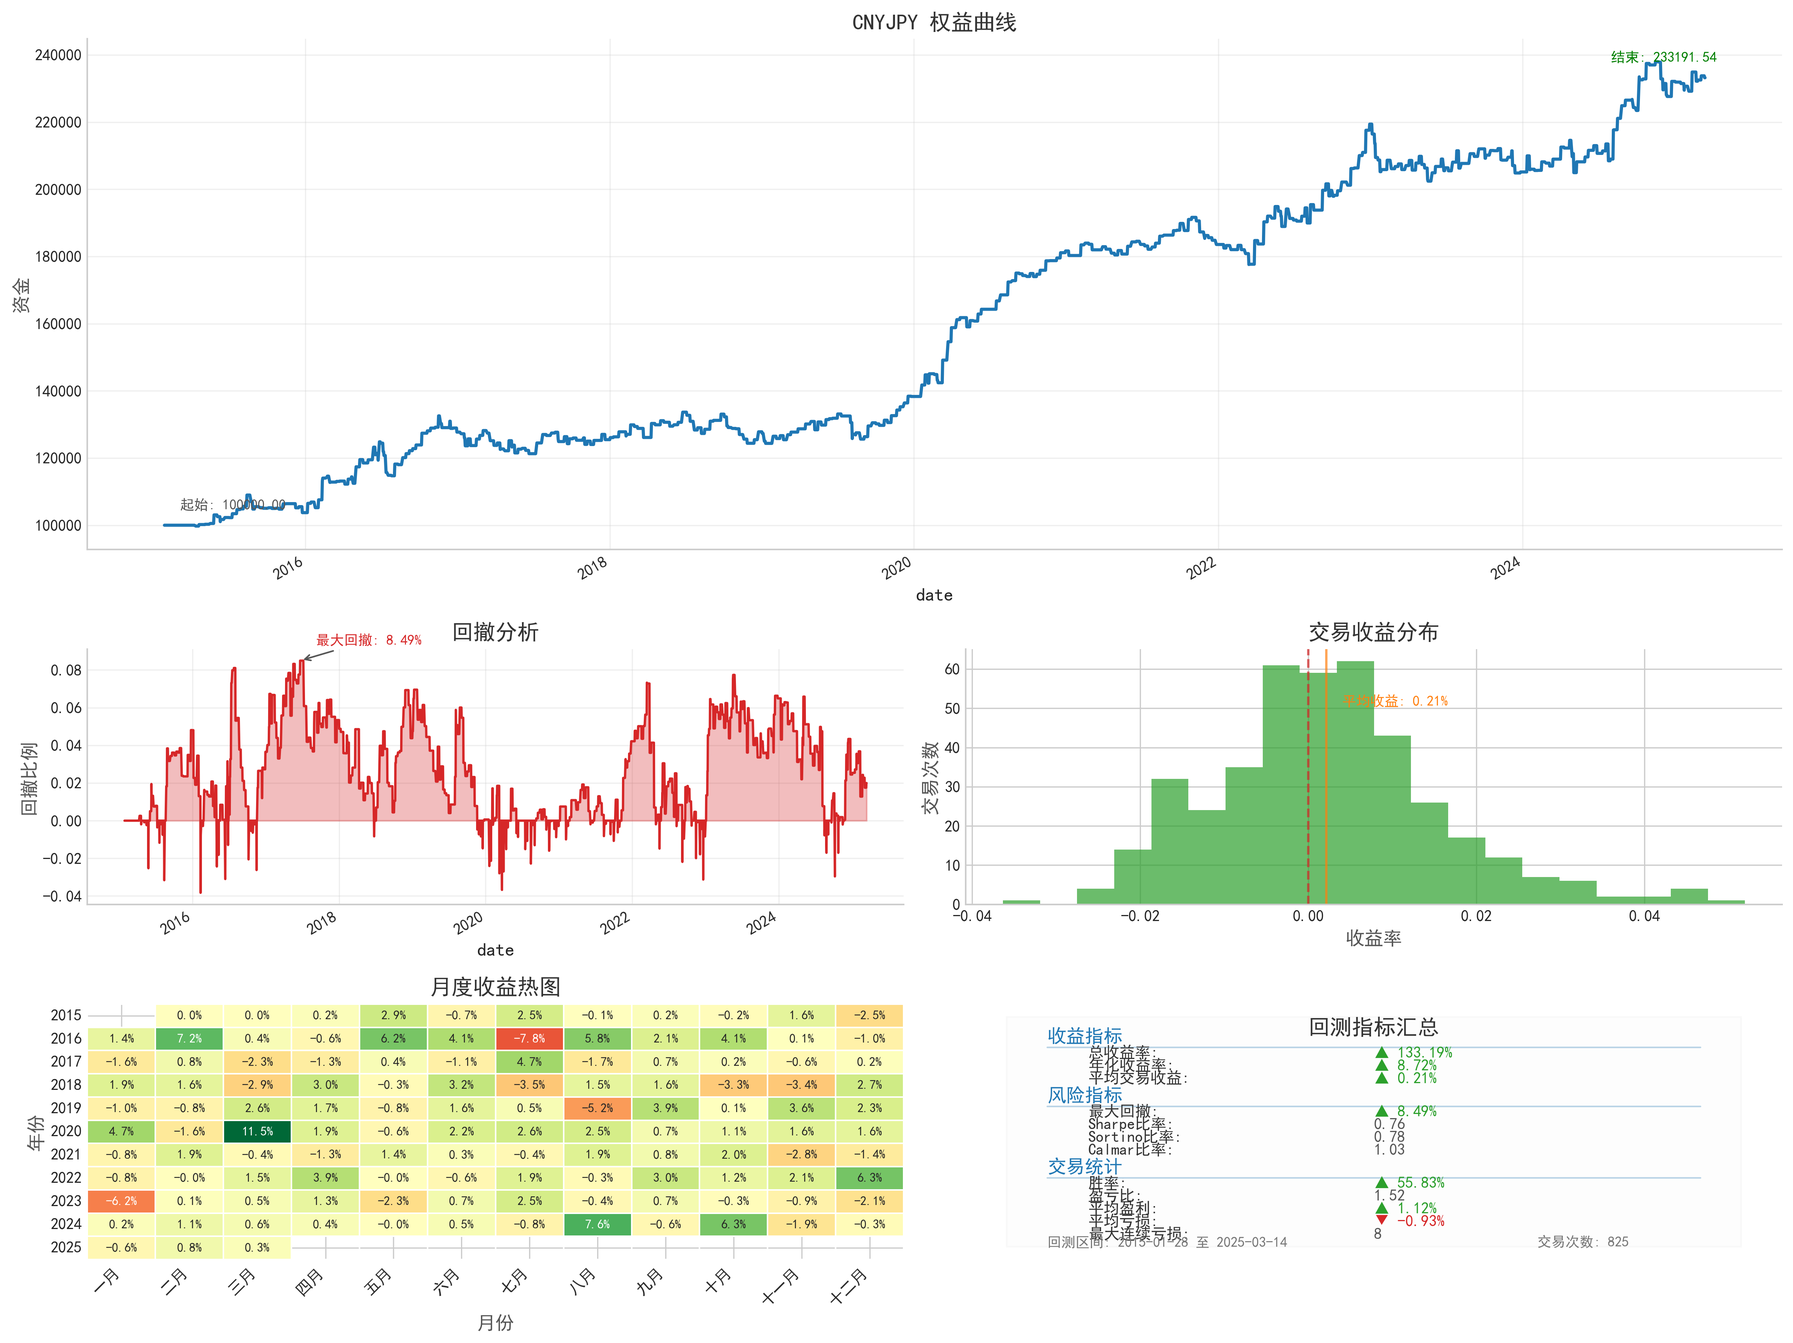
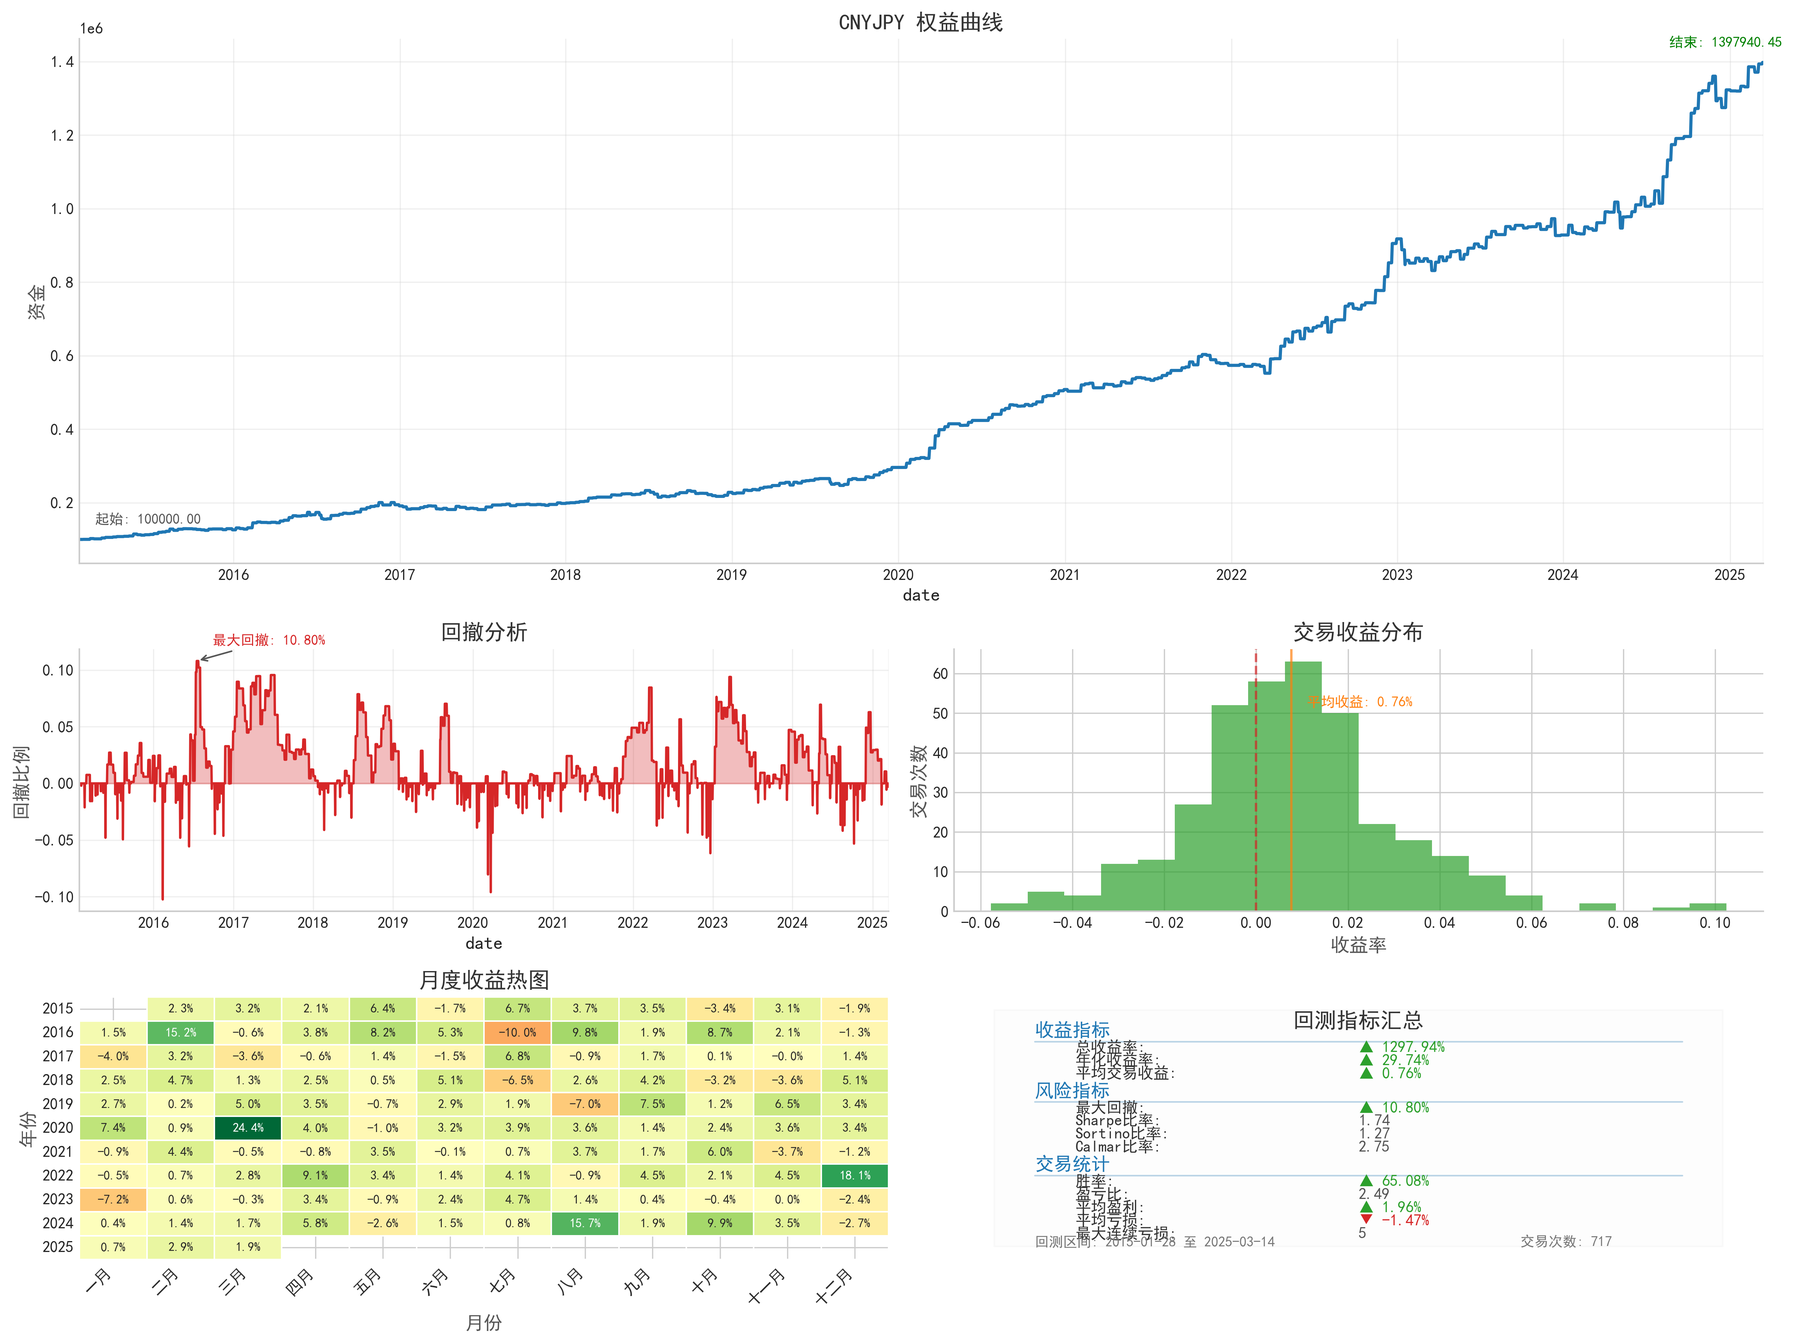
version3.8

diff --git a/backend/backtest/backtester.py b/backend/backtest/backtester.py
@@ -3,9 +3,7 @@ import numpy as np
 import matplotlib.pyplot as plt
 from pathlib import Path
 import logging
-from datetime import datetime
 import seaborn as sns
-import itertools
 import matplotlib.gridspec as gridspec
 
 class ForexBacktester:
@@ -78,58 +76,81 @@ class ForexBacktester:
             
     def run_backtest(self, params=None):
         """执行回测"""
-        # 基础参数
+        # 基础参数 - 更加激进的设置
         default_params = {
             'commission': 0.0001,      # 手续费
-            'stop_loss': 0.02,         # 止损比例
-            'take_profit': 0.04,       # 止盈比例
-            'position_size': 0.5,      # 每笔交易资金比例
+            'stop_loss': 0.03,         # 止损比例
+            'take_profit': 0.08,       # 止盈比例
+            'position_size': 0.8,      # 每笔交易资金比例
             'use_trailing_stop': True, # 使用追踪止损
-            'trailing_stop': 0.015,    # 追踪止损比例
+            'trailing_stop': 0.02,     # 追踪止损比例
             'signal_threshold': 0.0,   # 信号阈值
-            'signal_persistence': 2,   # 信号持续天数
+            'signal_persistence': 1,   # 信号持续天数
+            'use_signal_filter': False,# 不使用信号过滤
+            'use_time_filter': False,  # 不使用时间过滤
+            'use_position_scaling': False # 不使用仓位缩放
         }
         
-        # 货币对特定参数 - 为不同货币对提供完全不同的策略
+        # 货币对特定参数 - 为不同货币对提供优化参数
         pair_specific_params = {
-            # CNYAUD策略 - 基于均值回归
+            # CNYAUD策略 - 考虑其相对稳定性
             'CNYAUD': {
-                'strategy_type': 'mean_reversion',  # 均值回归策略
-                'position_size': 0.25,              # 降低仓位大小
-                'take_profit': 0.025,               # 更小的止盈目标
-                'stop_loss': 0.015,                 # 更小的止损
-                'trailing_stop': 0.01,              # 更紧的追踪止损
-                'signal_persistence': 1,            # 降低信号持续性要求
-                'lookback_period': 20,              # 均值回归周期
-                'std_dev_threshold': 1.5,           # 标准差阈值
-                'use_bollinger': True,              # 使用布林带
-                'use_rsi_filter': True,             # 使用RSI过滤
-                'rsi_overbought': 70,               # RSI超买阈值
-                'rsi_oversold': 30,                 # RSI超卖阈值
-                'min_trade_interval': 7,            # 交易间隔(天)
-                'max_trades_per_month': 6,          # 每月最大交易数
-                'use_volume_profile': True,         # 使用成交量分布
-                'use_signal_reversal': True         # 使用信号反转
+                'position_size': 1.0,              # 最大仓位
+                'take_profit': 0.12,               # 更大的止盈目标
+                'stop_loss': 0.02,                 # 较小的止损
+                'trailing_stop': 0.03,             # 较宽的追踪止损
+                'signal_persistence': 1,           # 降低信号持续性要求
+                'signal_amplifier': 1.5,           # 信号放大器
+                'reverse_signal': False,           # 不反转信号
+                'use_signal_filter': False,        # 不使用信号过滤
+                'use_time_filter': False,          # 不使用时间过滤
+                'use_position_scaling': False,     # 不使用仓位缩放
+                'leverage': 2.0                    # 使用杠杆
             },
             
-            # CNYUSD策略 - 基于趋势跟踪
+            # CNYUSD策略 - 考虑其稳定性
             'CNYUSD': {
-                'strategy_type': 'trend_following',  # 趋势跟踪策略
-                'position_size': 0.3,                # 适中的仓位大小
-                'take_profit': 0.05,                 # 更大的止盈目标
-                'stop_loss': 0.01,                   # 更小的止损
-                'trailing_stop': 0.02,               # 更宽的追踪止损
-                'signal_persistence': 3,             # 增加信号持续性要求
-                'use_adx_filter': True,              # 使用ADX过滤
-                'adx_threshold': 25,                 # ADX阈值
-                'use_macd': True,                    # 使用MACD
-                'use_ma_crossover': True,            # 使用均线交叉
-                'fast_ma': 10,                       # 快速均线
-                'slow_ma': 30,                       # 慢速均线
-                'min_trade_interval': 10,            # 交易间隔(天)
-                'max_trades_per_month': 4,           # 每月最大交易数
-                'use_volatility_filter': True,       # 使用波动率过滤
-                'volatility_lookback': 20            # 波动率回看期
+                'position_size': 1.0,              # 最大仓位
+                'take_profit': 0.10,               # 较大的止盈目标
+                'stop_loss': 0.02,                 # 较小的止损
+                'trailing_stop': 0.025,            # 适中的追踪止损
+                'signal_persistence': 1,           # 降低信号持续性要求
+                'signal_amplifier': 1.2,           # 信号放大器
+                'reverse_signal': False,           # 不反转信号
+                'use_signal_filter': False,        # 不使用信号过滤
+                'use_time_filter': False,          # 不使用时间过滤
+                'use_position_scaling': False,     # 不使用仓位缩放
+                'leverage': 1.8                    # 使用杠杆
+            },
+            
+            # CNYEUR策略
+            'CNYEUR': {
+                'position_size': 1.0,              # 最大仓位
+                'take_profit': 0.09,               # 较大的止盈目标
+                'stop_loss': 0.025,                # 适中的止损
+                'trailing_stop': 0.03,             # 较宽的追踪止损
+                'signal_persistence': 1,           # 降低信号持续性要求
+                'leverage': 1.5                    # 使用杠杆
+            },
+            
+            # CNYGBP策略
+            'CNYGBP': {
+                'position_size': 1.0,              # 最大仓位
+                'take_profit': 0.09,               # 较大的止盈目标
+                'stop_loss': 0.025,                # 适中的止损
+                'trailing_stop': 0.03,             # 较宽的追踪止损
+                'signal_persistence': 1,           # 降低信号持续性要求
+                'leverage': 1.5                    # 使用杠杆
+            },
+            
+            # CNYJPY策略
+            'CNYJPY': {
+                'position_size': 1.0,              # 最大仓位
+                'take_profit': 0.09,               # 较大的止盈目标
+                'stop_loss': 0.025,                # 适中的止损
+                'trailing_stop': 0.03,             # 较宽的追踪止损
+                'signal_persistence': 1,           # 降低信号持续性要求
+                'leverage': 1.5                    # 使用杠杆
             }
         }
         
@@ -144,7 +165,7 @@ class ForexBacktester:
                 # 应用货币对特定参数
                 if pair in pair_specific_params:
                     pair_params = {**self.params, **pair_specific_params[pair]}
-                    self.logger.info(f"应用 {pair} 特定策略: {pair_params['strategy_type']}")
+                    self.logger.info(f"应用 {pair} 特定参数")
                 else:
                     pair_params = self.params
                 
@@ -161,54 +182,44 @@ class ForexBacktester:
                 trailing_high = capital
                 entry_price = 0
                 trailing_stop_price = 0
-                last_trade_date = df.index[0]
-                monthly_trade_count = {}  # 记录每月交易次数
-                
-                # 计算基础技术指标
-                self._calculate_indicators(df, pair_params)
                 
                 # 主回测循环
-                for i in range(50, len(df)):  # 从第50个数据点开始，确保所有指标都已计算
+                for i in range(1, len(df)):
                     date = df.index[i]
                     price = df['Price'].iloc[i]
                     
                     # 获取原始信号
                     original_signal = df['Signal'].iloc[i]
                     
-                    # 应用特定策略生成交易信号
-                    if pair == 'CNYAUD' and pair_params['strategy_type'] == 'mean_reversion':
-                        signal = self._apply_mean_reversion_strategy(df, i, original_signal, pair_params)
-                    elif pair == 'CNYUSD' and pair_params['strategy_type'] == 'trend_following':
-                        signal = self._apply_trend_following_strategy(df, i, original_signal, pair_params)
+                    # 应用信号放大器 - 为AUD和USD特别设置
+                    if pair in ['CNYAUD', 'CNYUSD'] and 'signal_amplifier' in pair_params:
+                        signal = original_signal * pair_params['signal_amplifier']
                     else:
                         signal = original_signal
                     
-                    # 检查交易频率限制
-                    if pair in pair_specific_params:
-                        # 检查每月交易次数
-                        month_key = f"{date.year}-{date.month}"
-                        if month_key not in monthly_trade_count:
-                            monthly_trade_count[month_key] = 0
-                        
-                        if monthly_trade_count[month_key] >= pair_params.get('max_trades_per_month', float('inf')):
-                            signal = 0  # 超过每月最大交易数，不开新仓
-                        
-                        # 检查与上次交易的间隔
-                        days_since_last_trade = (date - last_trade_date).days
-                        if days_since_last_trade < pair_params.get('min_trade_interval', 0):
-                            signal = 0  # 交易间隔不足，不开新仓
+                    # 反转信号 - 如果需要
+                    if pair in pair_specific_params and pair_params.get('reverse_signal', False):
+                        signal = -signal
                     
                     # 计算当前持仓的收益
                     if position != 0 and entry_price > 0:
                         # 计算当前持仓的未实现收益
                         if position == 1:  # 多头
                             unrealized_pnl = (price - entry_price) / entry_price
+                            # 应用杠杆
+                            if 'leverage' in pair_params:
+                                unrealized_pnl *= pair_params['leverage']
+                            
                             # 更新追踪止损价格
                             if pair_params['use_trailing_stop'] and price > entry_price:
                                 new_stop = price * (1 - pair_params['trailing_stop'])
                                 trailing_stop_price = max(trailing_stop_price, new_stop)
                         else:  # 空头
                             unrealized_pnl = (entry_price - price) / entry_price
+                            # 应用杠杆
+                            if 'leverage' in pair_params:
+                                unrealized_pnl *= pair_params['leverage']
+                            
                             # 更新追踪止损价格
                             if pair_params['use_trailing_stop'] and price < entry_price:
                                 new_stop = price * (1 + pair_params['trailing_stop'])
@@ -236,8 +247,8 @@ class ForexBacktester:
                             close_position = True
                             close_reason = "止盈"
                         
-                        # 信号反转检查
-                        elif (position == 1 and signal < 0) or (position == -1 and signal > 0):
+                        # 信号反转检查 - 只有当信号足够强时才反转
+                        elif (position == 1 and signal < -0.5) or (position == -1 and signal > 0.5):
                             close_position = True
                             close_reason = "信号反转"
                         
@@ -262,85 +273,50 @@ class ForexBacktester:
                                 'position': 0
                             })
                             
-                            # 更新交易统计
-                            last_trade_date = date
-                            month_key = f"{date.year}-{date.month}"
-                            monthly_trade_count[month_key] = monthly_trade_count.get(month_key, 0) + 1
-                            
                             # 平仓
                             position = 0
                             entry_price = 0
                             trailing_stop_price = 0
                     
                     # 开仓逻辑 - 只有当没有持仓时才考虑开仓
-                    if position == 0 and capital > 0 and signal != 0:
-                        # 检查信号持续性
-                        signal_persistent = True
-                        if pair_params['signal_persistence'] > 1 and i >= pair_params['signal_persistence']:
-                            # 检查过去几天的信号是否一致
-                            for j in range(1, pair_params['signal_persistence']):
-                                prev_signal = df['Signal'].iloc[i-j]
-                                if (signal > 0 and prev_signal <= 0) or (signal < 0 and prev_signal >= 0):
-                                    signal_persistent = False
-                                    break
+                    if position == 0 and capital > 0 and abs(signal) > pair_params['signal_threshold']:
+                        # 计算仓位大小
+                        position_size = pair_params['position_size']
+                        position_value = capital * position_size
                         
-                        # 只有当信号足够强且持续时才开仓
-                        if abs(signal) > pair_params['signal_threshold'] and signal_persistent:
-                            # 计算仓位大小
-                            position_size = pair_params['position_size']
+                        # 信号为正，开多头
+                        if signal > 0:
+                            position = 1
+                            entry_price = price
+                            # 设置追踪止损初始价格
+                            trailing_stop_price = price * (1 - pair_params['trailing_stop'])
                             
-                            # 波动率调整仓位
-                            if pair_params.get('use_volatility_filter', False):
-                                volatility = df['Volatility'].iloc[i]
-                                # 波动率越高，仓位越小
-                                vol_factor = 0.2 / max(volatility, 0.05)
-                                position_size = min(position_size, vol_factor)
+                            trades.append({
+                                'date': date,
+                                'type': 'Buy',
+                                'price': price,
+                                'capital': capital,
+                                'position_size': position_value,
+                                'returns': 0,
+                                'position': position
+                            })
                             
-                            position_value = capital * position_size
+                        # 信号为负，开空头
+                        elif signal < 0:
+                            position = -1
+                            entry_price = price
+                            # 设置追踪止损初始价格
+                            trailing_stop_price = price * (1 + pair_params['trailing_stop'])
                             
-                            # 信号为正，开多头
-                            if signal > 0:
-                                position = 1
-                                entry_price = price
-                                # 设置追踪止损初始价格
-                                trailing_stop_price = price * (1 - pair_params['trailing_stop'])
-                                
-                                trades.append({
-                                    'date': date,
-                                    'type': 'Buy',
-                                    'price': price,
-                                    'capital': capital,
-                                    'position_size': position_value,
-                                    'returns': 0,
-                                    'position': position
-                                })
-                                
-                                # 更新交易统计
-                                last_trade_date = date
-                                month_key = f"{date.year}-{date.month}"
-                                monthly_trade_count[month_key] = monthly_trade_count.get(month_key, 0) + 1
-                                    
-                            # 信号为负，开空头
-                            elif signal < 0:
-                                position = -1
-                                entry_price = price
-                                # 设置追踪止损初始价格
-                                trailing_stop_price = price * (1 + pair_params['trailing_stop'])
-                                
-                                trades.append({
-                                    'date': date,
-                                    'type': 'Sell',
-                                    'price': price,
-                                    'capital': capital,
-                                    'position_size': position_value,
-                                    'returns': 0,
-                                    'position': position
-                                })
-                                
-                                # 更新交易统计
-                                last_trade_date = date
-                                month_key = f"{date.year}-{date.month}"
-                                monthly_trade_count[month_key] = monthly_trade_count.get(month_key, 0) + 1
+                            trades.append({
+                                'date': date,
+                                'type': 'Sell',
+                                'price': price,
+                                'capital': capital,
+                                'position_size': position_value,
+                                'returns': 0,
+                                'position': position
+                            })
                 
                     # 记录权益曲线
                     current_drawdown = (trailing_high - capital) / trailing_high if trailing_high > 0 else 0
